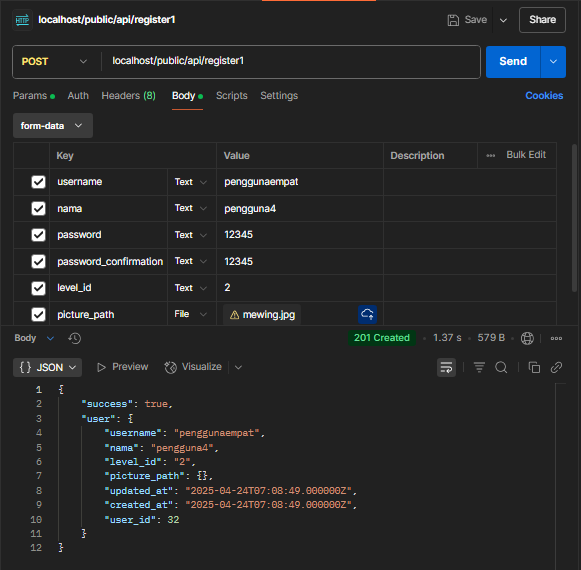
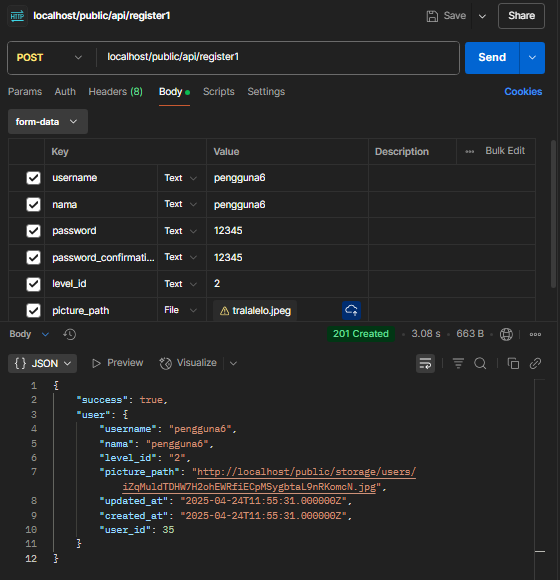
Fix: Praktikum 1 agar gambar tersimpan di storage

diff --git a/Minggu 11/PWL_POS/app/Models/UserModel.php b/Minggu 11/PWL_POS/app/Models/UserModel.php
@@ -6,6 +6,7 @@ use Illuminate\Database\Eloquent\Factories\HasFactory;
 use Illuminate\Database\Eloquent\Model;
 use Illuminate\Database\Eloquent\Relations\BelongsTo;
 use Tymon\JWTAuth\Contracts\JWTSubject;
+use Illuminate\Database\Eloquent\Casts\Attribute; 
 use Illuminate\Foundation\Auth\User as Authenticatable; // implementasi class Authenticatable
 
 class UserModel extends Authenticatable implements JWTSubject
@@ -47,5 +48,10 @@ class UserModel extends Authenticatable implements JWTSubject
         return[];
     }
 
-    
+    protected function picturePath(): Attribute 
+    { 
+        return Attribute::make( 
+            get: fn ($value) => url('/storage/users/' . $value), 
+        ); 
+    }
 }

diff --git a/Minggu 11/PWL_POS/app/Http/Controllers/Api/RegisterController.php b/Minggu 11/PWL_POS/app/Http/Controllers/Api/RegisterController.php
@@ -24,13 +24,17 @@ class RegisterController extends Controller
             return response()->json($validator->errors(), 422);
         }
 
+        //simpan gambar
+        $picture = $request->file('picture_path');
+        $picture->store('public/users');
+
         // create user
         $user = UserModel::create([
             'username' => $request->username,
             'nama' => $request->nama,
             'password' => $request->password,
             'level_id' => $request->level_id,
-            'picture_path' => $request->picture_path->hashName(),
+            'picture_path' => $picture->hashName(),
         ]);
 
         // return response JSON user is created
